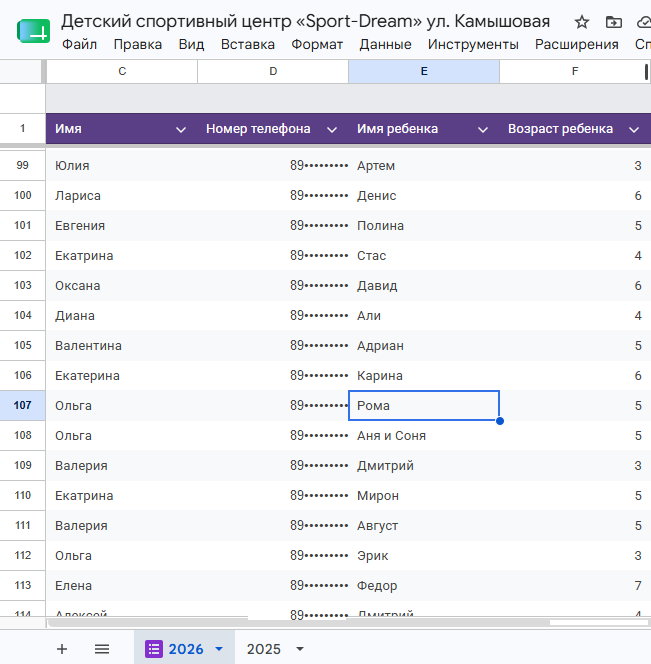
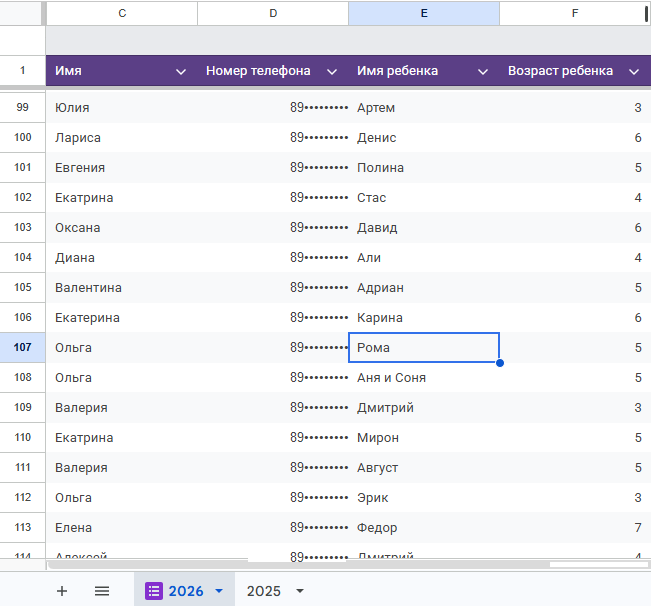
Название клиента убрано со скриншотов и из текстов; превью пересобрано

diff --git a/index.html b/index.html
@@ -298,11 +298,11 @@
           <figure class="deliver-shot">
             <div class="deliver-shot-frame">
               <picture>
-                <source media="(max-width: 620px)" srcset="assets/tablica-sport-dream-mob.png" width="651" height="664" />
-                <img src="assets/tablica-sport-dream.png" alt="Google Таблица клиента: имя родителя, телефон, имя ребёнка и возраст по каждой строке" width="1010" height="744" loading="lazy" decoding="async" />
+                <source media="(max-width: 620px)" srcset="assets/tablica-sport-dream-mob.png" width="651" height="606" />
+                <img src="assets/tablica-sport-dream.png" alt="Google Таблица клиента: имя родителя, телефон, имя ребёнка и возраст по каждой строке" width="1010" height="684" loading="lazy" decoding="async" />
               </picture>
             </div>
-            <figcaption class="deliver-note">Рабочая таблица клиента — детский спортивный центр «Sport-Dream», Санкт-Петербург. Телефоны скрыты, у школы они полные. Скриншот показан с разрешения клиента: ваша таблица без вашего согласия никуда не попадёт.</figcaption>
+            <figcaption class="deliver-note">Рабочая таблица клиента — детский спортивный центр в Санкт-Петербурге, второй сезон подряд. Телефоны скрыты, у школы они полные. Название и шапка таблицы убраны: ваша таблица без вашего согласия никуда не попадёт.</figcaption>
           </figure>
 
           <ul class="deliver-points">
@@ -542,7 +542,7 @@
           </li>
         </ol>
 
-        <p class="ongoing-text ongoing-text--wrap">Так по кругу с каждой партией — входит в работу, отдельно не оплачивается. С детским спортивным центром Sport-Dream так и начинали, с одного пробного выхода: работаем второй год подряд. Дальше партия под ваш график набора, хоть каждый месяц — набор идёт круглый год, родители ищут секции не только в сентябре.</p>
+        <p class="ongoing-text ongoing-text--wrap">Так по кругу с каждой партией — входит в работу, отдельно не оплачивается. С детским спортивным центром в Приморском районе так и начинали, с одного пробного выхода: работаем второй год подряд. Дальше партия под ваш график набора, хоть каждый месяц — набор идёт круглый год, родители ищут секции не только в сентябре.</p>
 
         <p class="ongoing-geo">
           <svg viewBox="0 0 24 24" width="20" height="20" fill="none" stroke="currentColor" stroke-width="2" stroke-linecap="round" stroke-linejoin="round" aria-hidden="true"><path d="M21 10c0 7-9 13-9 13s-9-6-9-13a9 9 0 0 1 18 0z"/><circle cx="12" cy="10" r="3"/></svg>
